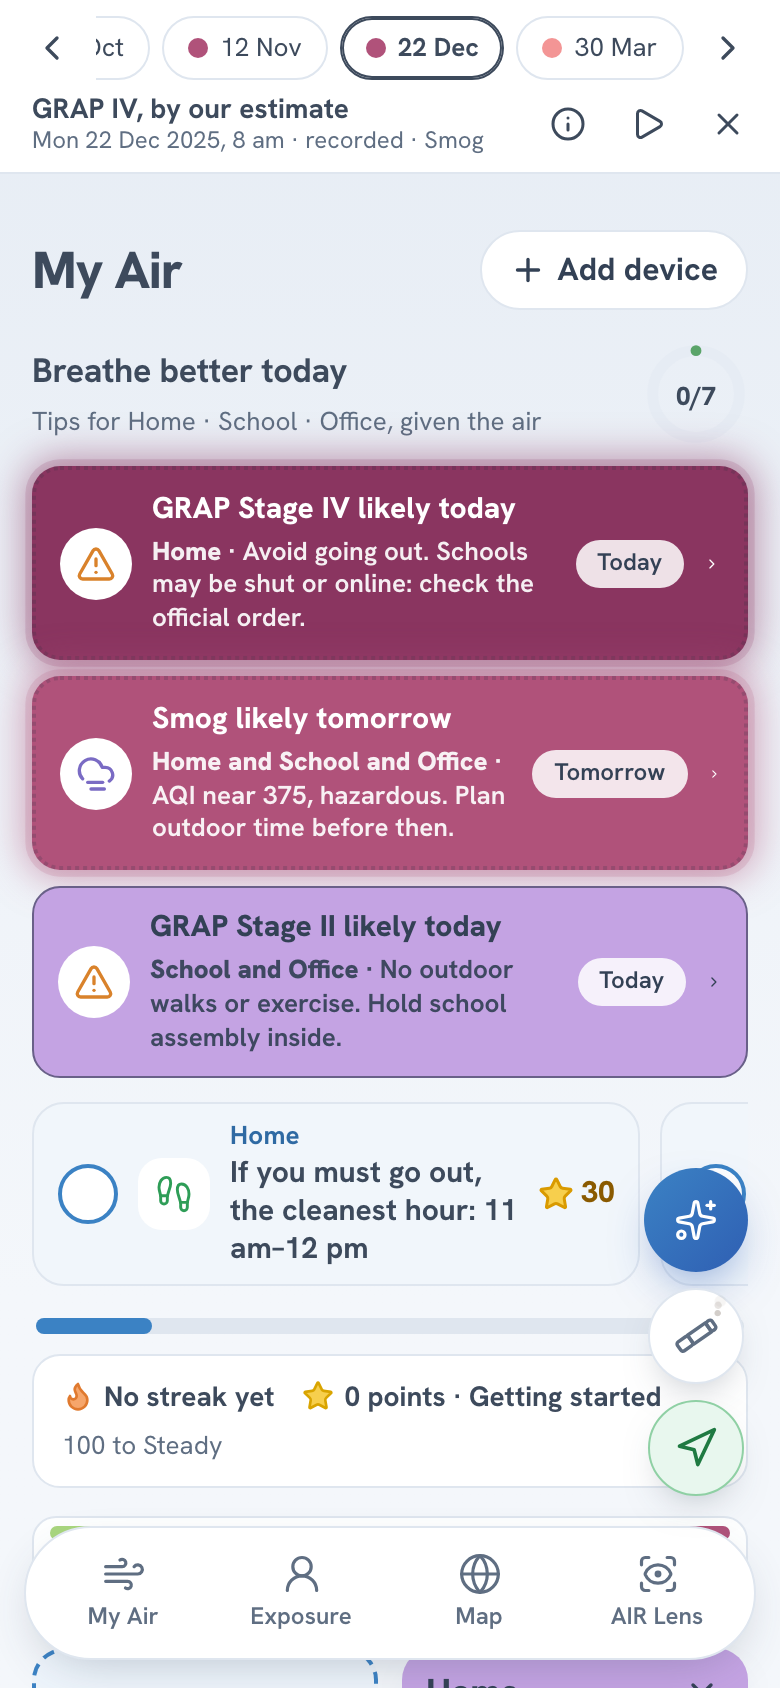
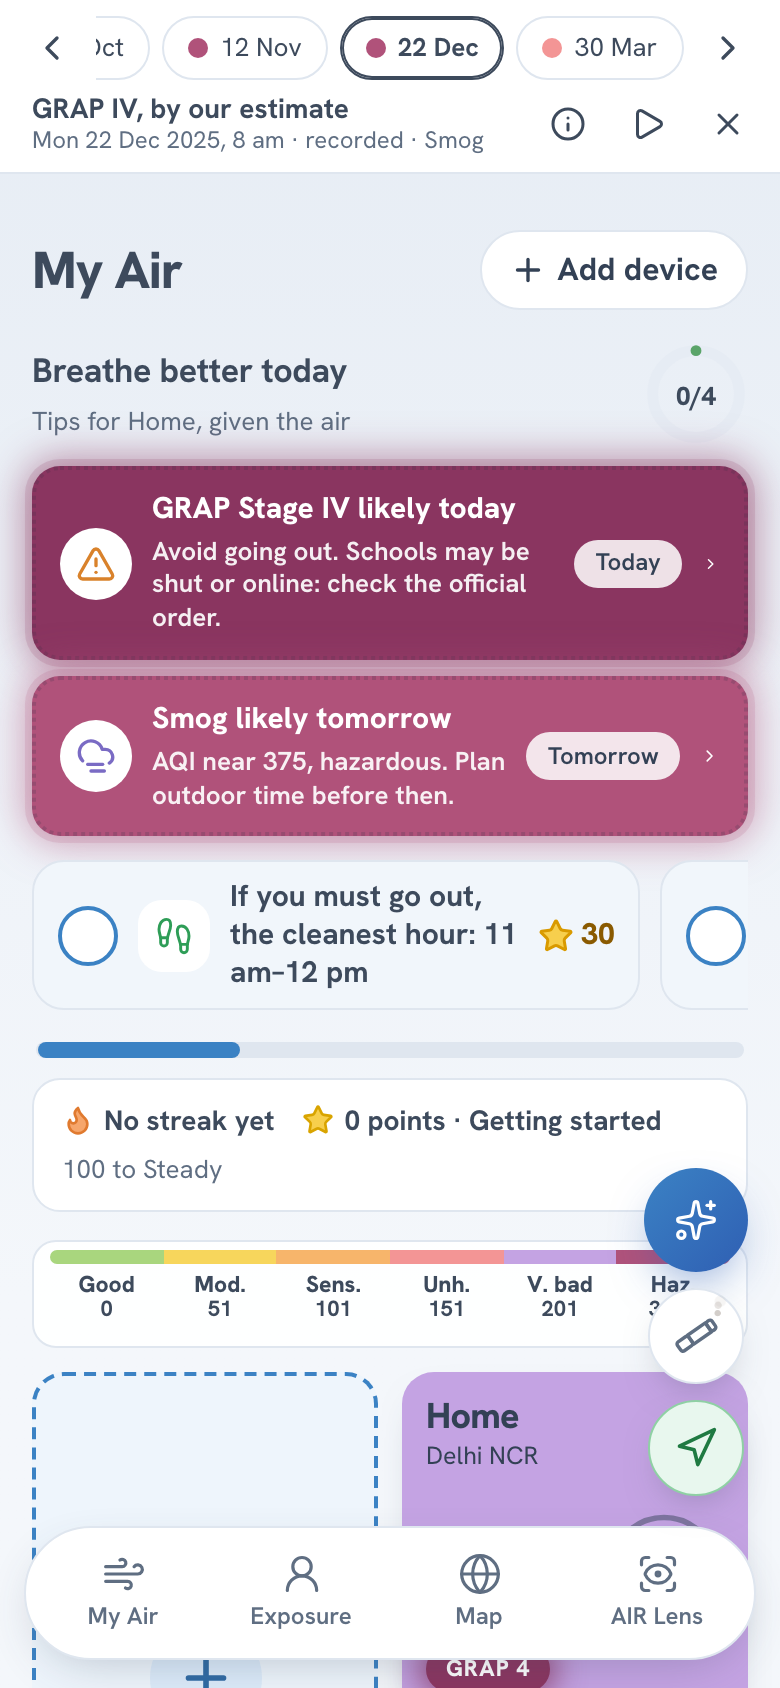
feat(replay): calibrate 7-day recorded crisis scenarios for Home and Park locations

diff --git a/apps/web/src/week/storage.ts b/apps/web/src/week/storage.ts
@@ -3,7 +3,7 @@ import { pinId, type Pin } from '../data/pins';
 import { saveHousehold, type Household } from '../exposure/people';
 import { sampleSpotsFor, saveSpots } from '../exposure/spots';
 
-/** A storage that lives only as long as the page: what the recorded week keeps, so the person's own data is untouched. */
+/** A storage that lives only as long as the page: what the recorded days keeps, so the person's own data is untouched. */
 export class MemoryStorage implements Storage {
   private readonly items = new Map<string, string>();
   get length(): number {
@@ -26,20 +26,22 @@ export class MemoryStorage implements Storage {
   }
 }
 
-/** The four places a household starts with in the recording: home, school, work and a park. */
-export const WEEK_PINS: readonly Pin[] = DEMO_PLACES.map((place) => ({
+/**
+ * The two places the recording starts with: home, and a park to walk in. No school and no office, so what each day
+ * shows is about the air itself: the GRAP stage, the fires, the rain, the wind, the best hour for a walk, the windows.
+ */
+export const WEEK_PINS: readonly Pin[] = DEMO_PLACES.filter(
+  (place) => place.name === 'Home' || place.name === 'Park',
+).map((place) => ({
   id: pinId(place.lat, place.lng),
   name: place.name,
   lat: place.lat,
   lng: place.lng,
 }));
 
-/** The household of the recording: the phone's owner, who works, and a child at school. */
+/** The household of the recording: one person, who is mostly at home. */
 export const WEEK_HOUSEHOLD: Household = {
-  people: [
-    { id: 'me', name: 'Me', age: 30, day: 'work' },
-    { id: 'asha', name: 'Asha', age: 9, day: 'school' },
-  ],
+  people: [{ id: 'me', name: 'Me', age: 30, day: 'none' }],
   current: 'me',
 };
 
@@ -52,7 +54,6 @@ export function installMemoryStorage(): Storage {
   const storage = new MemoryStorage();
   Object.defineProperty(window, 'localStorage', { value: storage, configurable: true });
   saveHousehold(storage, WEEK_HOUSEHOLD);
-  saveSpots(storage, 'me', sampleSpotsFor('adult'));
-  saveSpots(storage, 'asha', sampleSpotsFor('child'));
+  saveSpots(storage, 'me', sampleSpotsFor('senior'));
   return storage;
 }

diff --git a/apps/web/src/week/WeekBar.tsx b/apps/web/src/week/WeekBar.tsx
@@ -25,7 +25,7 @@ export function momentWords(day: RecordedDay): string {
 }
 
 /**
- * The strip above the app while the recorded week plays: which day it is, a chip for each day coloured by how the air
+ * The strip above the app while the recorded days plays: which day it is, a chip for each day coloured by how the air
  * was, play and stop, and the way out. What the recording is made of is one tap away.
  */
 export function WeekBar({
@@ -52,7 +52,7 @@ export function WeekBar({
   if (day === undefined) return <></>;
   const count = recorded.days.length;
   return (
-    <header className="week-bar" aria-label="Recorded week">
+    <header className="week-bar" aria-label="Recorded days">
       <div className="week-row">
         <button
           type="button"
@@ -131,7 +131,7 @@ export function WeekBar({
         <button
           type="button"
           className="week-step"
-          aria-label="Leave the recorded week"
+          aria-label="Leave the recorded days"
           onClick={onLeave}
         >
           <X size={18} aria-hidden="true" />
@@ -152,8 +152,8 @@ export function WeekBar({
           </ul>
           <p>
             The hours after the moment are what was recorded next, shown as a forecast would be.
-            GRAP stages are our own unofficial estimate, never the order. The places and people are
-            a sample household; anything you add lives only on this page.
+            GRAP stages are our own unofficial estimate, never the order. The two places and the
+            person are two sample places, Home and a Park; anything you add lives only on this page.
           </p>
         </div>
       )}

diff --git a/apps/web/src/week/storage.test.ts b/apps/web/src/week/storage.test.ts
@@ -16,14 +16,14 @@ describe('the recording’s own storage', () => {
     expect(s.length).toBe(0);
   });
 
-  it('replaces the browser’s storage and starts a household of two, leaving the person’s own data alone', () => {
+  it('replaces the browser’s storage and starts one person with two places, leaving the person’s own data alone', () => {
     window.localStorage.setItem(PINS_STORAGE_KEY, '[{"id":"x","name":"Mine","lat":1,"lng":2}]');
     const kept = window.localStorage;
     const memory = installMemoryStorage();
     expect(window.localStorage).toBe(memory);
     expect(window.localStorage.getItem(PINS_STORAGE_KEY)).toBeNull();
-    expect(loadHousehold(window.localStorage).people.map((p) => p.name)).toEqual(['Me', 'Asha']);
+    expect(loadHousehold(window.localStorage).people.map((p) => p.name)).toEqual(['Me']);
     expect(kept.getItem(PINS_STORAGE_KEY)).toContain('Mine');
-    expect(WEEK_PINS.map((p) => p.name)).toEqual(['Home', 'School', 'Office', 'Park']);
+    expect(WEEK_PINS.map((p) => p.name)).toEqual(['Home', 'Park']);
   });
 });

diff --git a/apps/web/src/today/ui/Attribution.tsx b/apps/web/src/today/ui/Attribution.tsx
@@ -16,7 +16,7 @@ const age = (minutes: number): string => {
  */
 export function Attribution({ data }: { readonly data: TodayData }): React.JSX.Element {
   const p = data.provenance;
-  // On a day of the recorded week the reading is real but not current, and the hours after it were recorded, not modelled.
+  // On a day of the recorded days the reading is real but not current, and the hours after it were recorded, not modelled.
   const recorded = weekActive();
   return (
     <section className="attribution" aria-label="Where this comes from">

diff --git a/apps/web/src/week/entry.tsx b/apps/web/src/week/entry.tsx
@@ -79,7 +79,7 @@ function WeekApp({ recorded }: { readonly recorded: Recorded }): React.JSX.Eleme
 }
 
 /**
- * The recorded week: the app, unchanged, run on seven real days from the archive instead of on the air of this minute.
+ * The recorded days: the app, unchanged, run on seven real days from the archive instead of on the air of this minute.
  * Opened by `#/week`. It is read-only and private: its places and people live in memory, and nothing it does is sent.
  */
 export async function startWeek(root: HTMLElement): Promise<void> {

diff --git a/apps/web/src/week/active.ts b/apps/web/src/week/active.ts
@@ -19,5 +19,5 @@ export function setWeekScene(next: WeekScene | undefined): void {
 /** The recorded day on screen, or undefined when the app is running on the real, current air. */
 export const weekScene = (): WeekScene | undefined => scene;
 
-/** Whether the app is playing the recorded week. Nothing then leaves the device: no report, no request is sent. */
+/** Whether the app is playing the recorded days. Nothing then leaves the device: no report, no request is sent. */
 export const weekActive = (): boolean => scene !== undefined;

diff --git a/apps/web/src/main.tsx b/apps/web/src/main.tsx
@@ -19,7 +19,7 @@ if (import.meta.env.VITE_DEMO === '1') {
     startDemo(root);
   });
 } else if (window.location.hash.startsWith('#/week')) {
-  // The recorded week: seven real days played through the same app, opened by an unlisted address.
+  // The recorded days: seven real days played through the same app, opened by an unlisted address.
   void import('./week/entry').then(({ startWeek }) => startWeek(root));
 } else {
   // The deployed app reads the real air from our API on AWS.

diff --git a/apps/web/src/week/WeekBar.test.tsx b/apps/web/src/week/WeekBar.test.tsx
@@ -42,7 +42,7 @@ describe('the week bar', () => {
     expect(onSelect).toHaveBeenLastCalledWith(4);
     fireEvent.click(screen.getByRole('button', { name: 'Play the week' }));
     expect(onPlay).toHaveBeenCalledWith(true);
-    fireEvent.click(screen.getByRole('button', { name: 'Leave the recorded week' }));
+    fireEvent.click(screen.getByRole('button', { name: 'Leave the recorded days' }));
     expect(onLeave).toHaveBeenCalled();
   });
 

diff --git a/apps/web/src/assistant/RequestForm.tsx b/apps/web/src/assistant/RequestForm.tsx
@@ -17,7 +17,7 @@ import {
   type Who,
 } from './requests';
 
-/** The deployed app sends to our API; the prototype, the tests and the recorded week keep it on the device. */
+/** The deployed app sends to our API; the prototype, the tests and the recorded days keep it on the device. */
 const requestUrl = (): string | undefined =>
   airStore().kind === 'live' && !weekActive() ? API_URL : undefined;
 

diff --git a/apps/web/src/week/types.ts b/apps/web/src/week/types.ts
@@ -1,5 +1,5 @@
 /**
- * The recorded week, as `scripts/record-week.mjs` writes it. Every series is hourly from India midnight of
+ * The recorded days, as `scripts/record-week.mjs` writes it. Every series is hourly from India midnight of
  * `seriesFrom`, `hours` long, with null where nothing was measured.
  */
 export interface RecordedStation {

diff --git a/apps/web/src/styles.css b/apps/web/src/styles.css
@@ -5757,7 +5757,7 @@ table.hourly .row-label {
   padding: 0 4px;
 }
 
-/* The recorded week: a strip above the app with the day, its chips, play and the way out */
+/* The recorded days: a strip above the app with the day, its chips, play and the way out */
 
 .week-bar {
   position: sticky;

diff --git a/README.md b/README.md
@@ -4,7 +4,7 @@
 
 > A parent in Delhi sees "AQI 162" for the city. Their child's school is kilometres from the nearest monitor, and the morning assembly is in the open. The app says which monitor the number came from, how far away it is and how old the reading is, what GRAP stage the last day points to (our estimate, never the order), and whether assembly should be inside.
 
-Live: **https://d3sqz5i7m8h3wk.cloudfront.net** (a phone or a laptop; no sign-in) · The recorded week: **https://d3sqz5i7m8h3wk.cloudfront.net/#/week** · Video: _to be added_ · Blog: [`docs/blog.md`](docs/blog.md) · Run it on your machine: `make local`
+Live: **https://d3sqz5i7m8h3wk.cloudfront.net** (a phone or a laptop; no sign-in) · The recorded days: **https://d3sqz5i7m8h3wk.cloudfront.net/#/week** · Video: _to be added_ · Blog: [`docs/blog.md`](docs/blog.md) · Run it on your machine: `make local`
 
 Code for a Billion Bharat Hackathon submission, August to November 2026.
 
@@ -12,7 +12,7 @@ Code for a Billion Bharat Hackathon submission, August to November 2026.
 
 Every number in the live app comes from a real source (OpenAQ monitors, Open-Meteo weather, forecast and wind, MET Norway wind as a second source, NASA FIRMS fires) through our own API on AWS. There is no demo mode and no made-up number in the deployed bundle; `make prove` fails if one gets in.
 
-**The recorded week is real too.** Open `/#/week` and the same app plays seven real days from last winter, one at a time, as if each were today at 8 am: 6 Oct 2025 (rain), 7 Oct (the clean day after), 21 Oct (after Diwali), 31 Oct (stubble fires), 12 Nov (smog), 22 Dec (GRAP Stage IV by our estimate) and 30 Mar 2026 (wind). The air comes from four Delhi monitors in OpenAQ's public archive, the weather from Open-Meteo's archive, the fires from NASA FIRMS. It is there so you can see every feature without waiting for a bad day, and the page says it is recorded. Cleaning is two rules, written in the file and counted (see [`docs/AS-BUILT.md`](docs/AS-BUILT.md)).
+**The recorded days is real too.** Open `/#/week` and the same app plays seven real days from last winter, one at a time, as if each were today at 8 am: 6 Oct 2025 (rain), 7 Oct (the clean day after), 21 Oct (after Diwali), 31 Oct (stubble fires), 12 Nov (smog), 22 Dec (GRAP Stage IV by our estimate) and 30 Mar 2026 (wind). The air comes from four Delhi monitors in OpenAQ's public archive, the weather from Open-Meteo's archive, the fires from NASA FIRMS. It is there so you can see every feature without waiting for a bad day, and the page says it is recorded. Cleaning is two rules, written in the file and counted (see [`docs/AS-BUILT.md`](docs/AS-BUILT.md)).
 
 The only made-up days in the repository are in the separate prototype build (`npm run build:demo`: device frames, scenarios, a simulated Bluetooth unit), which is never uploaded and is labelled "Sample data" wherever it shows a number.
 
@@ -35,7 +35,7 @@ The only made-up days in the repository are in the separate prototype build (`np
 | **Map**               | The air across the world: every monitor, wind, fires, and the colour between.                                                                                                                                                       |
 | **AIR Lens**          | Point a phone camera and see the air as particles, with a scene for each place; an eye button makes the card see-through.                                                                                                           |
 | **Assistant**         | Ask a question or tell it something ("Asha walked in the park for 40 minutes"), in English or Hindi, read aloud in either.                                                                                                          |
-| **The recorded week** | The whole app on seven real past days, labelled recorded.                                                                                                                                                                           |
+| **The recorded days** | The whole app on seven real past days, labelled recorded.                                                                                                                                                                           |
 
 Every number says whether it is **Live** (a named monitor, how far, how old), an **Estimate** (a regional model) or **Measured** (your own unit). Monitor readings older than six hours are not used, and nothing is advised from them.
 
@@ -67,7 +67,7 @@ The headline rule: **code decides and AI only words things.** If the model's ans
 
 | Part                                                  | State                                                                                                                                                                                                                                                                                                                                   |
 | ----------------------------------------------------- | --------------------------------------------------------------------------------------------------------------------------------------------------------------------------------------------------------------------------------------------------------------------------------------------------------------------------------------- |
-| The web app, the API, the stack, the recorded week    | Live, seen working                                                                                                                                                                                                                                                                                                                      |
+| The web app, the API, the stack, the recorded days    | Live, seen working                                                                                                                                                                                                                                                                                                                      |
 | The measuring unit (ESP32-S3 + SPS30, over Bluetooth) | Built and running: the board reads the sensor, and the live site connects, shows readings, and counts measured hours in Exposure                                                                                                                                                                                                        |
 | Accuracy of the unit                                  | **Not measured.** It has not been compared with a monitor over days. It is a low-cost sensor and is labelled that way                                                                                                                                                                                                                   |
 | Telegram alerts                                       | Built and tested for real users; live scheduled sends are off; no in-app screen to link a chat                                                                                                                                                                                                                                           |
@@ -110,7 +110,7 @@ make local     # in another: the app on your machine, reading it
 | `make deploy-site`                | Build the app for the live address and upload it.                           |
 | `make smoke LIVE_URL=https://…`   | Check the data, the rules and the headers on a live address.                |
 | `npm run build:demo -w @aerovigil/web` | The separate prototype build (made-up days, device frames). Never uploaded. |
-| `node scripts/record-week.mjs`    | Remake the recorded week from the public archives (needs a NASA FIRMS key). |
+| `node scripts/record-week.mjs`    | Remake the recorded days from the public archives (needs a NASA FIRMS key). |
 
 The stack deploys with `cd infra && npx cdk deploy`. It needs three secrets made by hand first: `aerovigil/openaq-api-key`, `aerovigil/firms-map-key` and `aerovigil/telegram-bot-token`.
 
@@ -118,7 +118,7 @@ The stack deploys with `cd infra && npx cdk deploy`. It needs three secrets made
 
 | Path                 | What                                                                                                                                 |
 | -------------------- | ------------------------------------------------------------------------------------------------------------------------------------ |
-| `apps/web`           | The app (React, MapLibre). `src/air` is where real data enters; `src/week` is the recorded week; `src/devices` is the measuring unit |
+| `apps/web`           | The app (React, MapLibre). `src/air` is where real data enters; `src/week` is the recorded days; `src/devices` is the measuring unit |
 | `apps/api`           | The API Lambda, the stations Lambda and the routes                                                                                   |
 | `packages/contracts` | The shape of every request and answer (zod)                                                                                          |
 | `packages/core`      | The rules: air bands, timeline, windows, verdicts, the assistant's fixed answers (English and Hindi)                                 |
